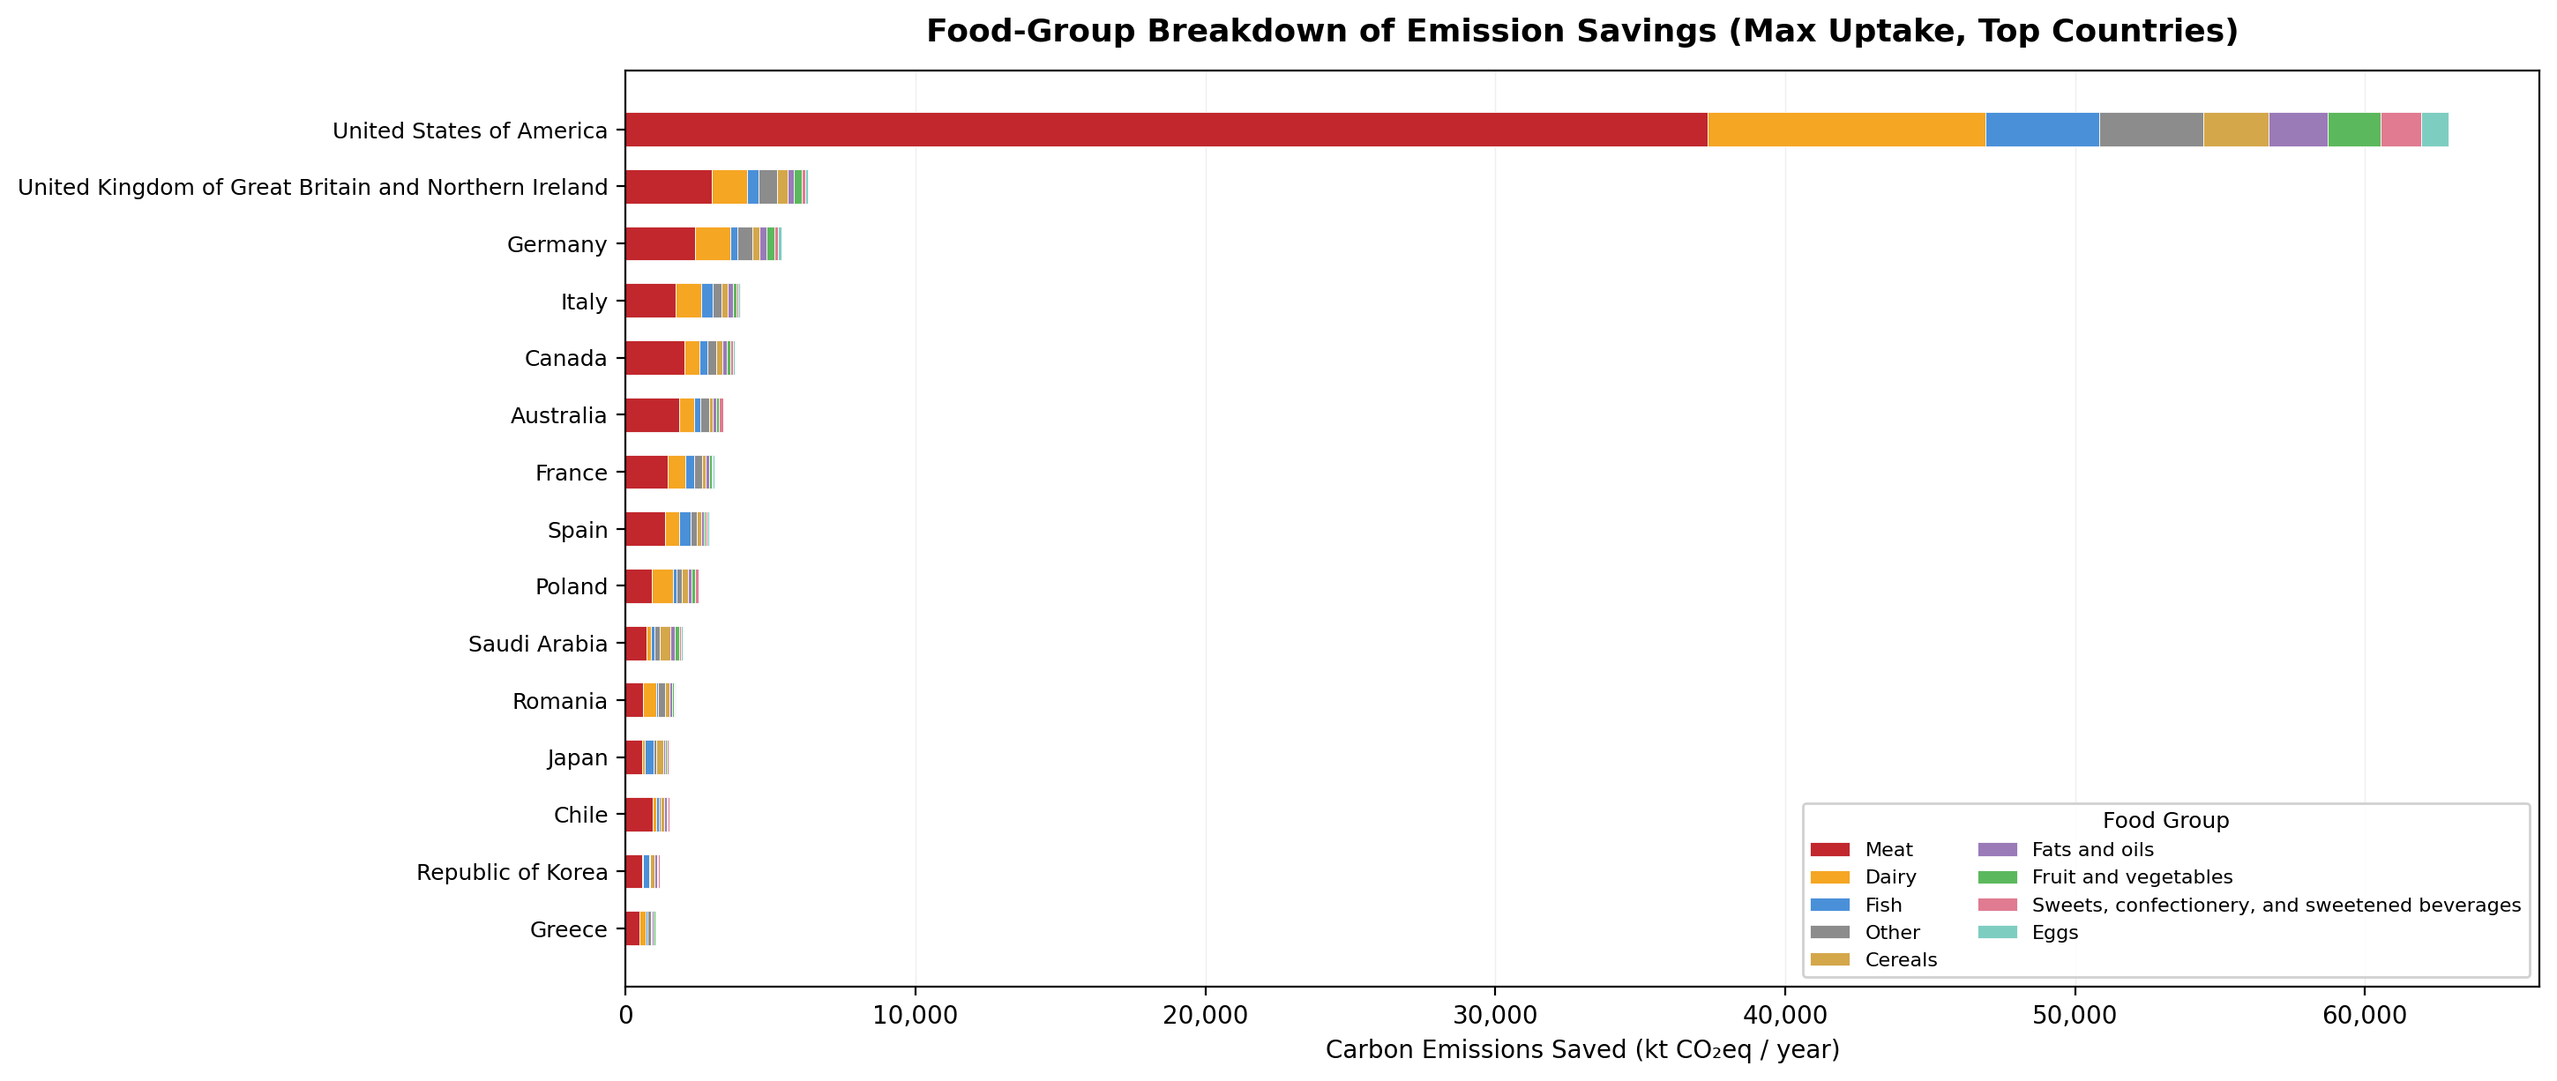
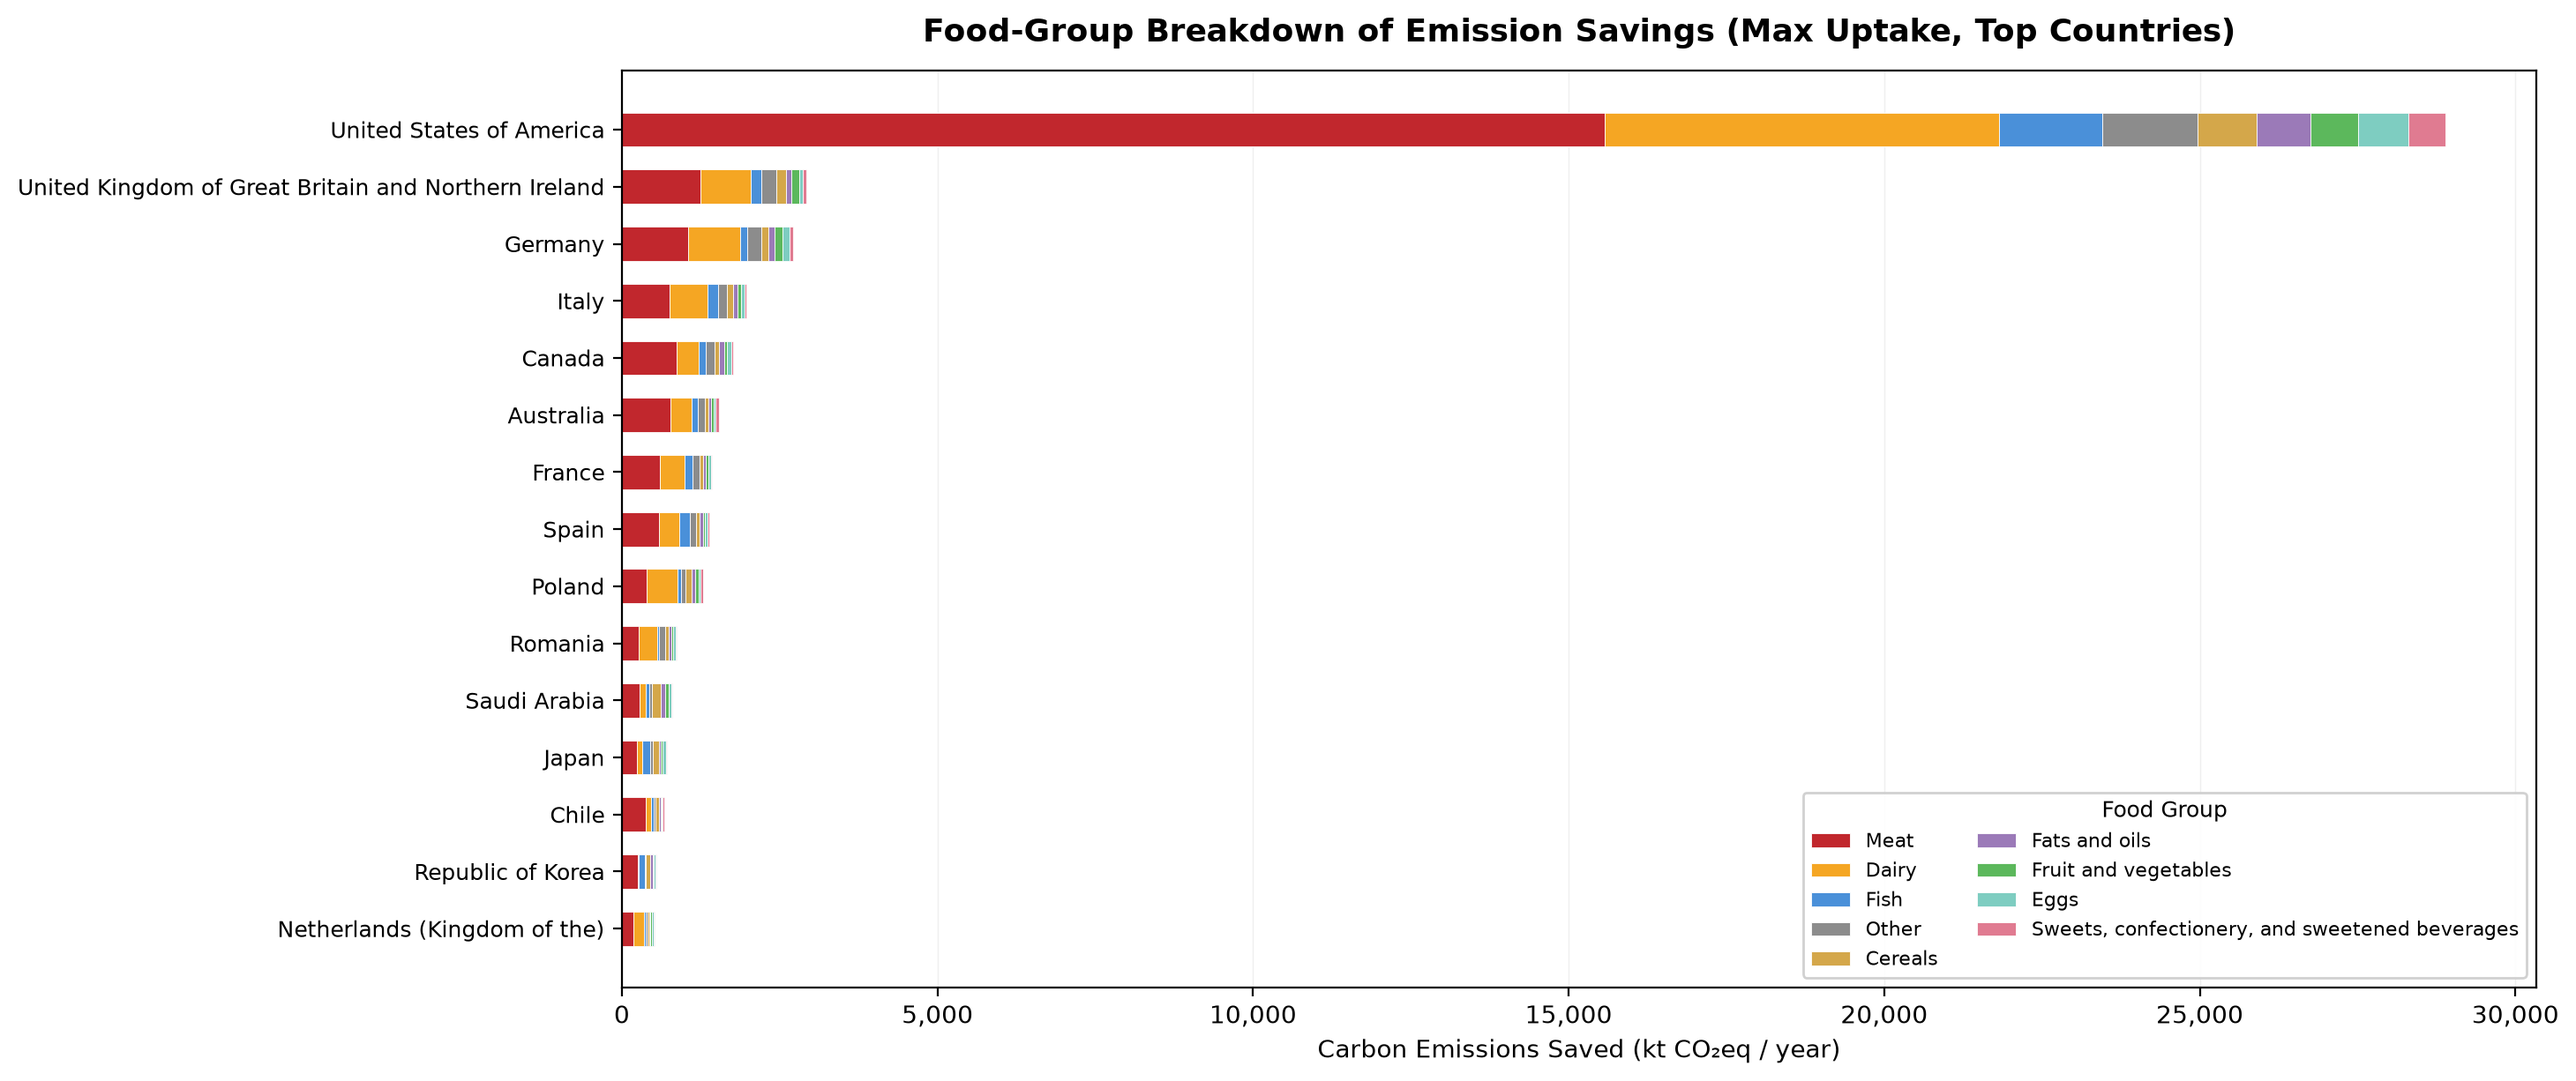
Regenerate figures and tables on fix1+fix2+fix3 pipeline
Regenerate all Group A (main pipeline) and Group B (diet/sensitivity) outputs
now that both code paths carry fix #1 (aggregate exclusion), fix #2 (raw-milk
dairy via CI files), and fix #3 (all-ages EER demand-shock denominator). These
committed outputs were last generated before those corrections, so the shift is
the full cumulative correction, not fix #3 alone.

Headline shifts (max uptake, complete-data countries):
- 10-yr actual food savings 1098.6 -> 514.0 Mt; net climate savings 886.0 -> 301.3 Mt
- 1-yr actual food savings 116.1 -> 54.2 Mt
- supplement table emissions reduced (after rebound) 116 -> 54.2 Mt (max), 59.4 -> 27.8 (mod)
- sensitivity global 10-yr ratio: P10 2.36 -> 1.11 (6 tipping), combined-conservative
  2.72 -> 1.29 (1 tipping), P90 10.37 -> 4.72, baseline 5.42 -> 2.50

Invariants preserved (no regression): survivor emissions constant at 200.607 Mt
across all scenarios; supplement calories-reduced unchanged; drug_emissions_by_country.csv
unchanged (drug footprint is treated-user-based, independent of food fixes) and
so is intentionally not in this commit.

Adds outputs/fix3/regenerate_all.py (ordered regeneration driver) and
review_diffs.py (pre/post headline check) for provenance. Untracked/ignored
outputs (supplement_results_table*.csv, breakeven_publication.pdf) left as-is.
The rebound_validation self-copy bug (post-savefig shutil.copy onto itself) is
left unfixed pending your call; its figure regenerates correctly regardless.

diff --git a/outputs/fix3/regenerate_all.py b/outputs/fix3/regenerate_all.py
@@ -1,0 +1,132 @@
+"""Part 2 orchestrator: regenerate all Group A + Group B outputs on the
+post-fix (fix1+fix2+fix3) pipeline, in dependency order, and report which
+committed files changed. Regenerates figures + tables; commits nothing."""
+import hashlib
+import os
+import subprocess
+import time
+from pathlib import Path
+
+ROOT = Path(r"C:\Users\sethw\repos")
+PY = r"C:\Python314\python.exe"
+env = dict(os.environ, PYTHONUTF8="1", PYTHONPATH=str(ROOT))
+START = time.time()
+
+# (label, argv after python)  -- dependency order: waterfalls before combined.
+STEPS = [
+    ("breakeven_analysis",      ["-m", "data_visualization.breakeven_analysis"]),
+    ("emissions_figure",        ["-m", "data_visualization.generate_emissions_figure"]),
+    ("dashboard_figure",        ["-m", "data_visualization.generate_dashboard_figure"]),
+    ("rebound_figure",          ["-m", "data_visualization.generate_rebound_figure"]),
+    ("rebound_validation",      ["-m", "data_visualization.generate_rebound_validation"]),
+    ("drug_effect",             ["-m", "drug_effect.analysis"]),
+    ("supplement_table",        ["scripts/build_supplement_table.py"]),
+    ("waterfall",               ["-m", "data_visualization.generate_waterfall_figure"]),
+    ("waterfall_1yr",           ["-m", "data_visualization.generate_waterfall_1yr_figure"]),
+    ("waterfall_combined",      ["-m", "data_visualization.generate_waterfall_combined_figure"]),
+    ("sensitivity_overview",    ["-m", "diet_sensitivity.sensitivity_overview"]),
+    ("diet_analysis",           ["-m", "diet_sensitivity.analysis"]),
+    ("combined_analysis",       ["-m", "diet_sensitivity.combined_analysis"]),
+    ("tornado",                 ["-m", "diet_sensitivity.tornado_analysis"]),
+]
+
+TRACKED_CSV = [
+    "data_result/global_emissions_waterfall.csv",
+    "data_result/global_emissions_waterfall_1yr.csv",
+    "data_result/drug_emissions_by_country.csv",
+    "data_result/net_emissions_with_drug.csv",
+    "data_result/drug_footprint_summary.csv",
+    "data_result/diet_sensitivity_results.csv",
+    "data_result/diet_sensitivity_ratio_comparison.csv",
+    "data_result/combined_sensitivity_results.csv",
+    "data_result/combined_sensitivity_ratio_comparison.csv",
+    "data_result/carbon_intensity_meat_p10.csv",
+    "data_result/carbon_intensity_meat_p90.csv",
+    "data_result/all_sensitivity_overview_results.csv",
+    "data_result/all_sensitivity_overview_country_ratios.csv",
+    "data_result/sensitivity_tornado_results.csv",
+]
+TRACKED_FIG = [
+    "figures/breakeven_by_country.png", "figures/breakeven_curves.png",
+    "figures/breakeven_stock_all_countries.png", "figures/breakeven_flow_all_countries.png",
+    "figures/breakeven_publication.png",
+    "figures/emissions_saved_by_country.png",
+    "figures/country_dashboard.png", "figures/food_group_breakdown.png",
+    "figures/rebound_decomposition.png", "figures/rebound_by_income.png",
+    "figures/global_emissions_waterfall.png", "figures/global_emissions_waterfall_1yr.png",
+    "figures/global_emissions_waterfall_combined.png",
+    "figures/drug_footprint_summary.png",
+    "figures/diet_sensitivity_global_comparison.png",
+    "figures/diet_sensitivity_lowest_ratio_countries.png",
+    "figures/combined_sensitivity_lowest_ratio_countries.png",
+    "figures/all_sensitivity_overview.png",
+    "figures/sensitivity_tornado.png",
+]
+UNTRACKED_ALSO = [
+    "data_result/supplement_results_table.csv",
+    "data_result/supplement_results_table_raw.csv",
+    "figures/breakeven_publication.pdf",
+]
+
+
+def sha(b):
+    return hashlib.sha256(b).hexdigest()
+
+
+def committed_bytes(path):
+    r = subprocess.run(["git", "show", f"HEAD:{path}"], cwd=str(ROOT),
+                       capture_output=True)
+    return r.stdout if r.returncode == 0 else None
+
+
+results = []
+for label, args in STEPS:
+    t0 = time.time()
+    r = subprocess.run([PY] + args, cwd=str(ROOT), env=env,
+                       capture_output=True, text=True)
+    dt = time.time() - t0
+    results.append((label, r.returncode, dt))
+    print(f"[{label}] rc={r.returncode}  {dt:.0f}s", flush=True)
+    if r.returncode != 0:
+        print("  --- STDERR tail ---")
+        print("  " + "\n  ".join((r.stderr or "").strip().splitlines()[-25:]), flush=True)
+
+print("\n" + "=" * 90)
+print("SCRIPT RUN SUMMARY")
+print("=" * 90)
+for label, rc, dt in results:
+    print(f"  {label:<24} {'OK' if rc == 0 else 'FAILED rc=%d' % rc:<12}  {dt:6.0f}s")
+
+print("\n" + "=" * 90)
+print("COMMITTED CSV CHANGES (vs HEAD)")
+print("=" * 90)
+for p in TRACKED_CSV:
+    fp = ROOT / p
+    written = fp.exists() and fp.stat().st_mtime >= START
+    cb = committed_bytes(p)
+    if not fp.exists():
+        state = "MISSING (not written!)"
+    elif cb is None:
+        state = "written (no HEAD blob)"
+    else:
+        changed = sha(fp.read_bytes()) != sha(cb)
+        state = ("CHANGED" if changed else "unchanged (flag!)") + (
+            "" if written else "  [mtime not updated!]")
+    print(f"  {p:<52} {state}")
+
+print("\n" + "=" * 90)
+print("COMMITTED FIGURES WRITTEN (mtime updated this run)")
+print("=" * 90)
+for p in TRACKED_FIG:
+    fp = ROOT / p
+    ok = fp.exists() and fp.stat().st_mtime >= START
+    print(f"  {p:<52} {'written' if ok else 'NOT WRITTEN (flag!)'}")
+
+print("\n" + "=" * 90)
+print("ALSO WRITTEN (untracked)")
+print("=" * 90)
+for p in UNTRACKED_ALSO:
+    fp = ROOT / p
+    ok = fp.exists() and fp.stat().st_mtime >= START
+    print(f"  {p:<52} {'written' if ok else 'NOT WRITTEN'}")
+print("\nDONE_REGEN")

diff --git a/outputs/fix3/review_diffs.py b/outputs/fix3/review_diffs.py
@@ -1,0 +1,54 @@
+"""Part 3 review: headline shifts in key committed CSVs, regenerated vs their
+pre-regeneration committed (HEAD) state. Read-only; commits nothing."""
+import io
+import subprocess
+from pathlib import Path
+import pandas as pd
+
+ROOT = Path(r"C:\Users\sethw\repos")
+pd.set_option("display.width", 200); pd.set_option("display.max_columns", 30)
+
+
+def head_df(path):
+    r = subprocess.run(["git", "show", f"HEAD:{path}"], cwd=str(ROOT),
+                       capture_output=True)
+    if r.returncode != 0:
+        return None
+    data = r.stdout
+    if data[:40].startswith(b"version https://git-lfs"):
+        s = subprocess.run(["git", "lfs", "smudge"], cwd=str(ROOT),
+                           input=data, capture_output=True)
+        if s.returncode != 0 or not s.stdout:
+            return None
+        data = s.stdout
+    return pd.read_csv(io.BytesIO(data))
+
+
+def show(path, cols=None, n=None):
+    old = head_df(path); new = pd.read_csv(ROOT / path)
+    print("\n" + "=" * 96); print(path); print("=" * 96)
+    for name, df in [("PRE (HEAD)", old), ("POST (regen)", new)]:
+        if df is None:
+            print(f"  [{name}] (no committed version)"); continue
+        d = df[cols] if cols else df
+        d = d.head(n) if n else d
+        print(f"  --- {name} ---")
+        print(d.to_string(index=False))
+
+
+# 1. Waterfalls
+show("data_result/global_emissions_waterfall.csv")
+show("data_result/global_emissions_waterfall_1yr.csv")
+
+# 2. Supplement table (untracked -> compare vs pre-regen snapshot)
+print("\n" + "=" * 96); print("data_result/supplement_results_table.csv (vs pre-regen snapshot)")
+print("=" * 96)
+snap = pd.read_csv(ROOT / "outputs/fix3/presnapshot/supplement_results_table.csv")
+cur = pd.read_csv(ROOT / "data_result/supplement_results_table.csv")
+print("  --- PRE (snapshot) ---"); print(snap.to_string(index=False))
+print("  --- POST (regen) ---"); print(cur.to_string(index=False))
+
+# 3. Sensitivity results
+show("data_result/all_sensitivity_overview_results.csv")
+show("data_result/combined_sensitivity_ratio_comparison.csv")
+show("data_result/diet_sensitivity_ratio_comparison.csv")
